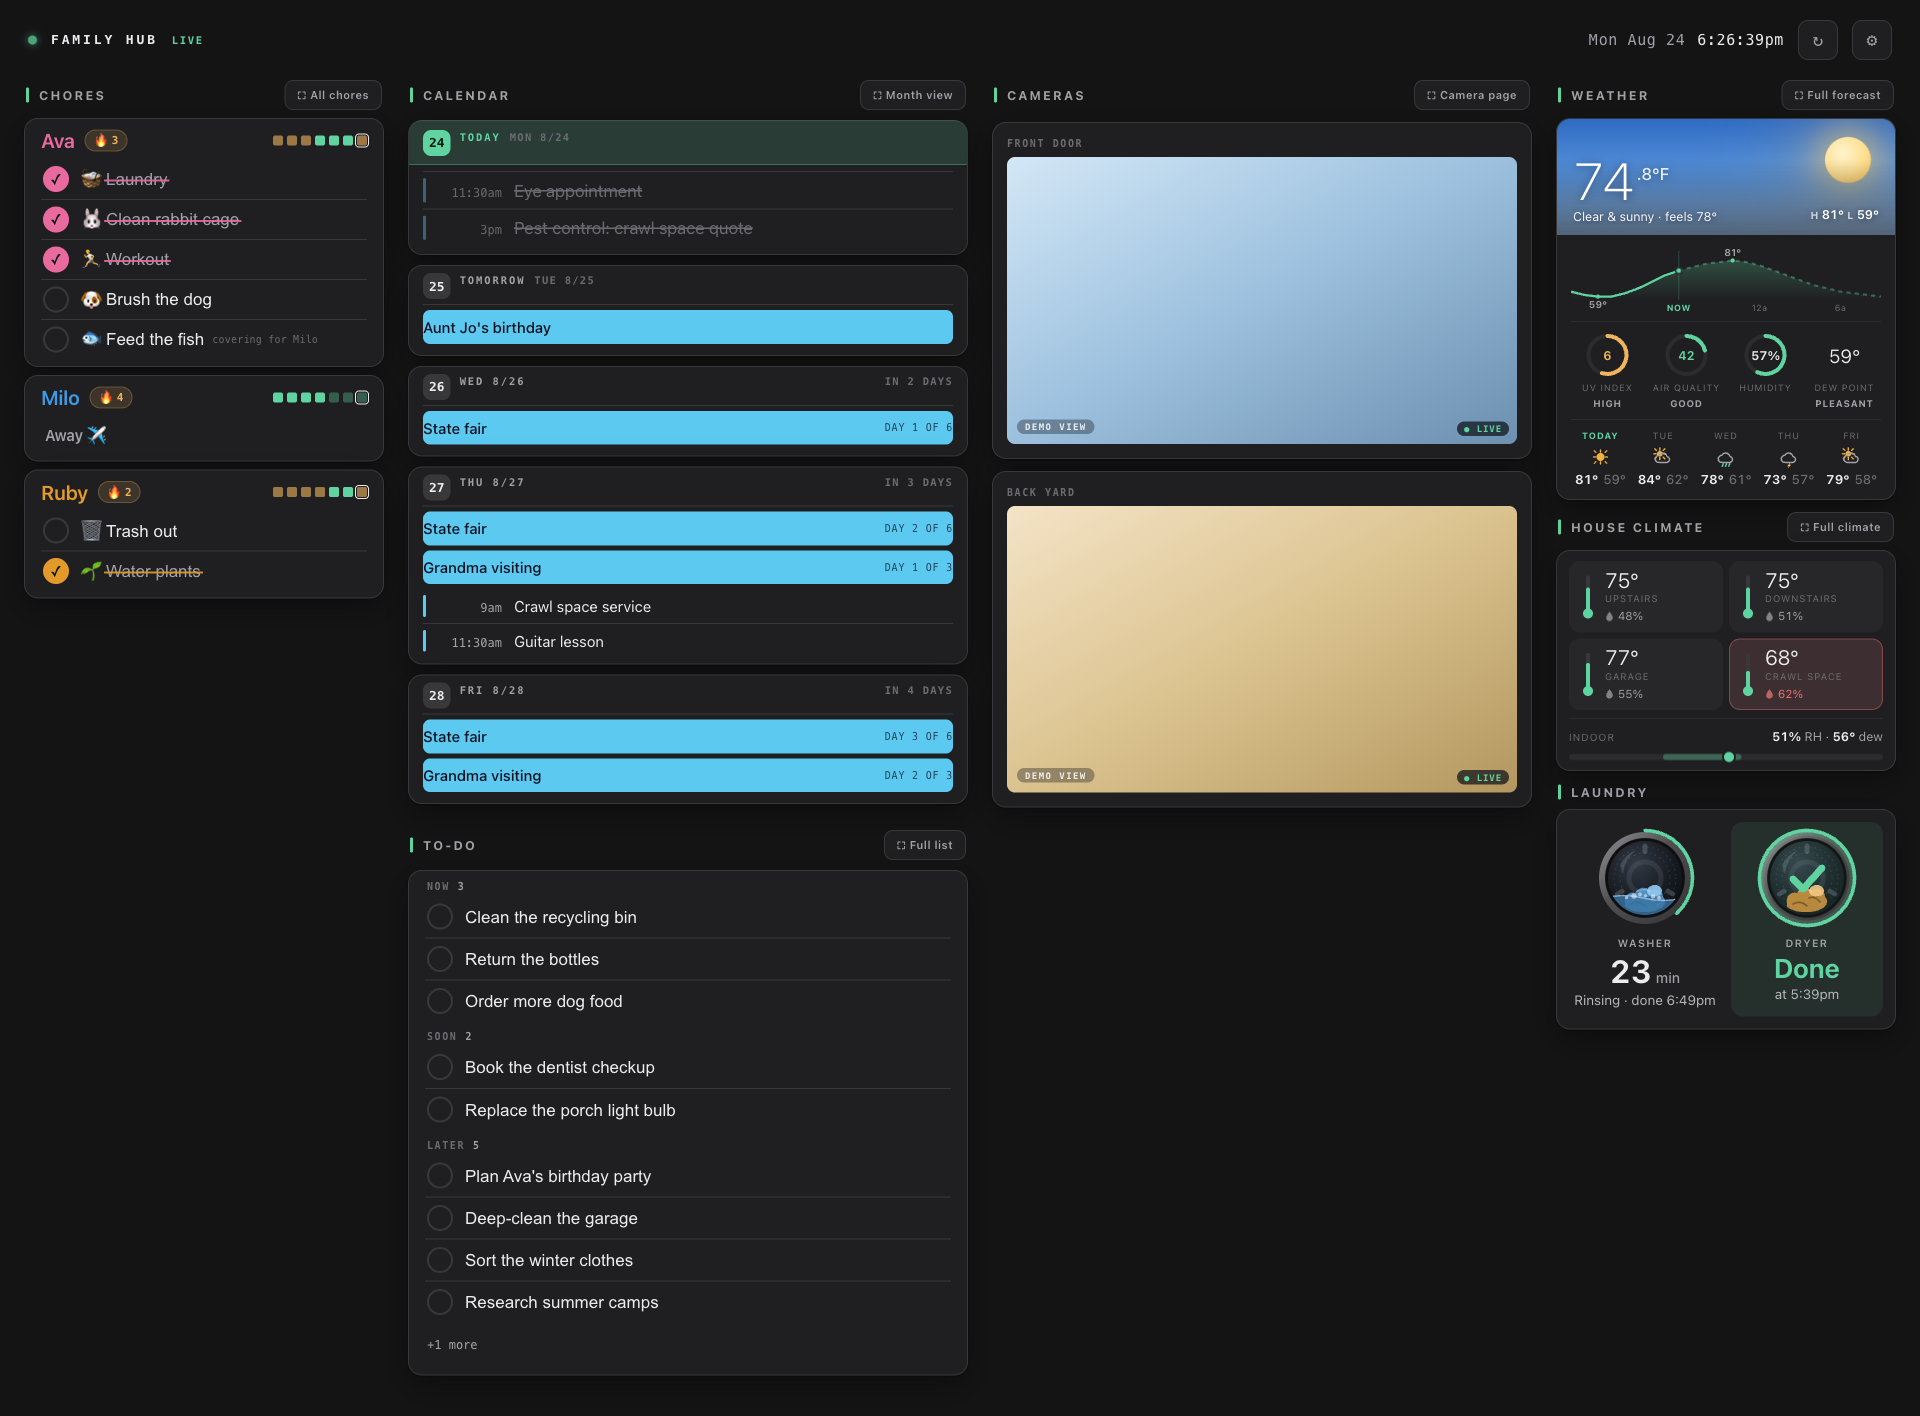
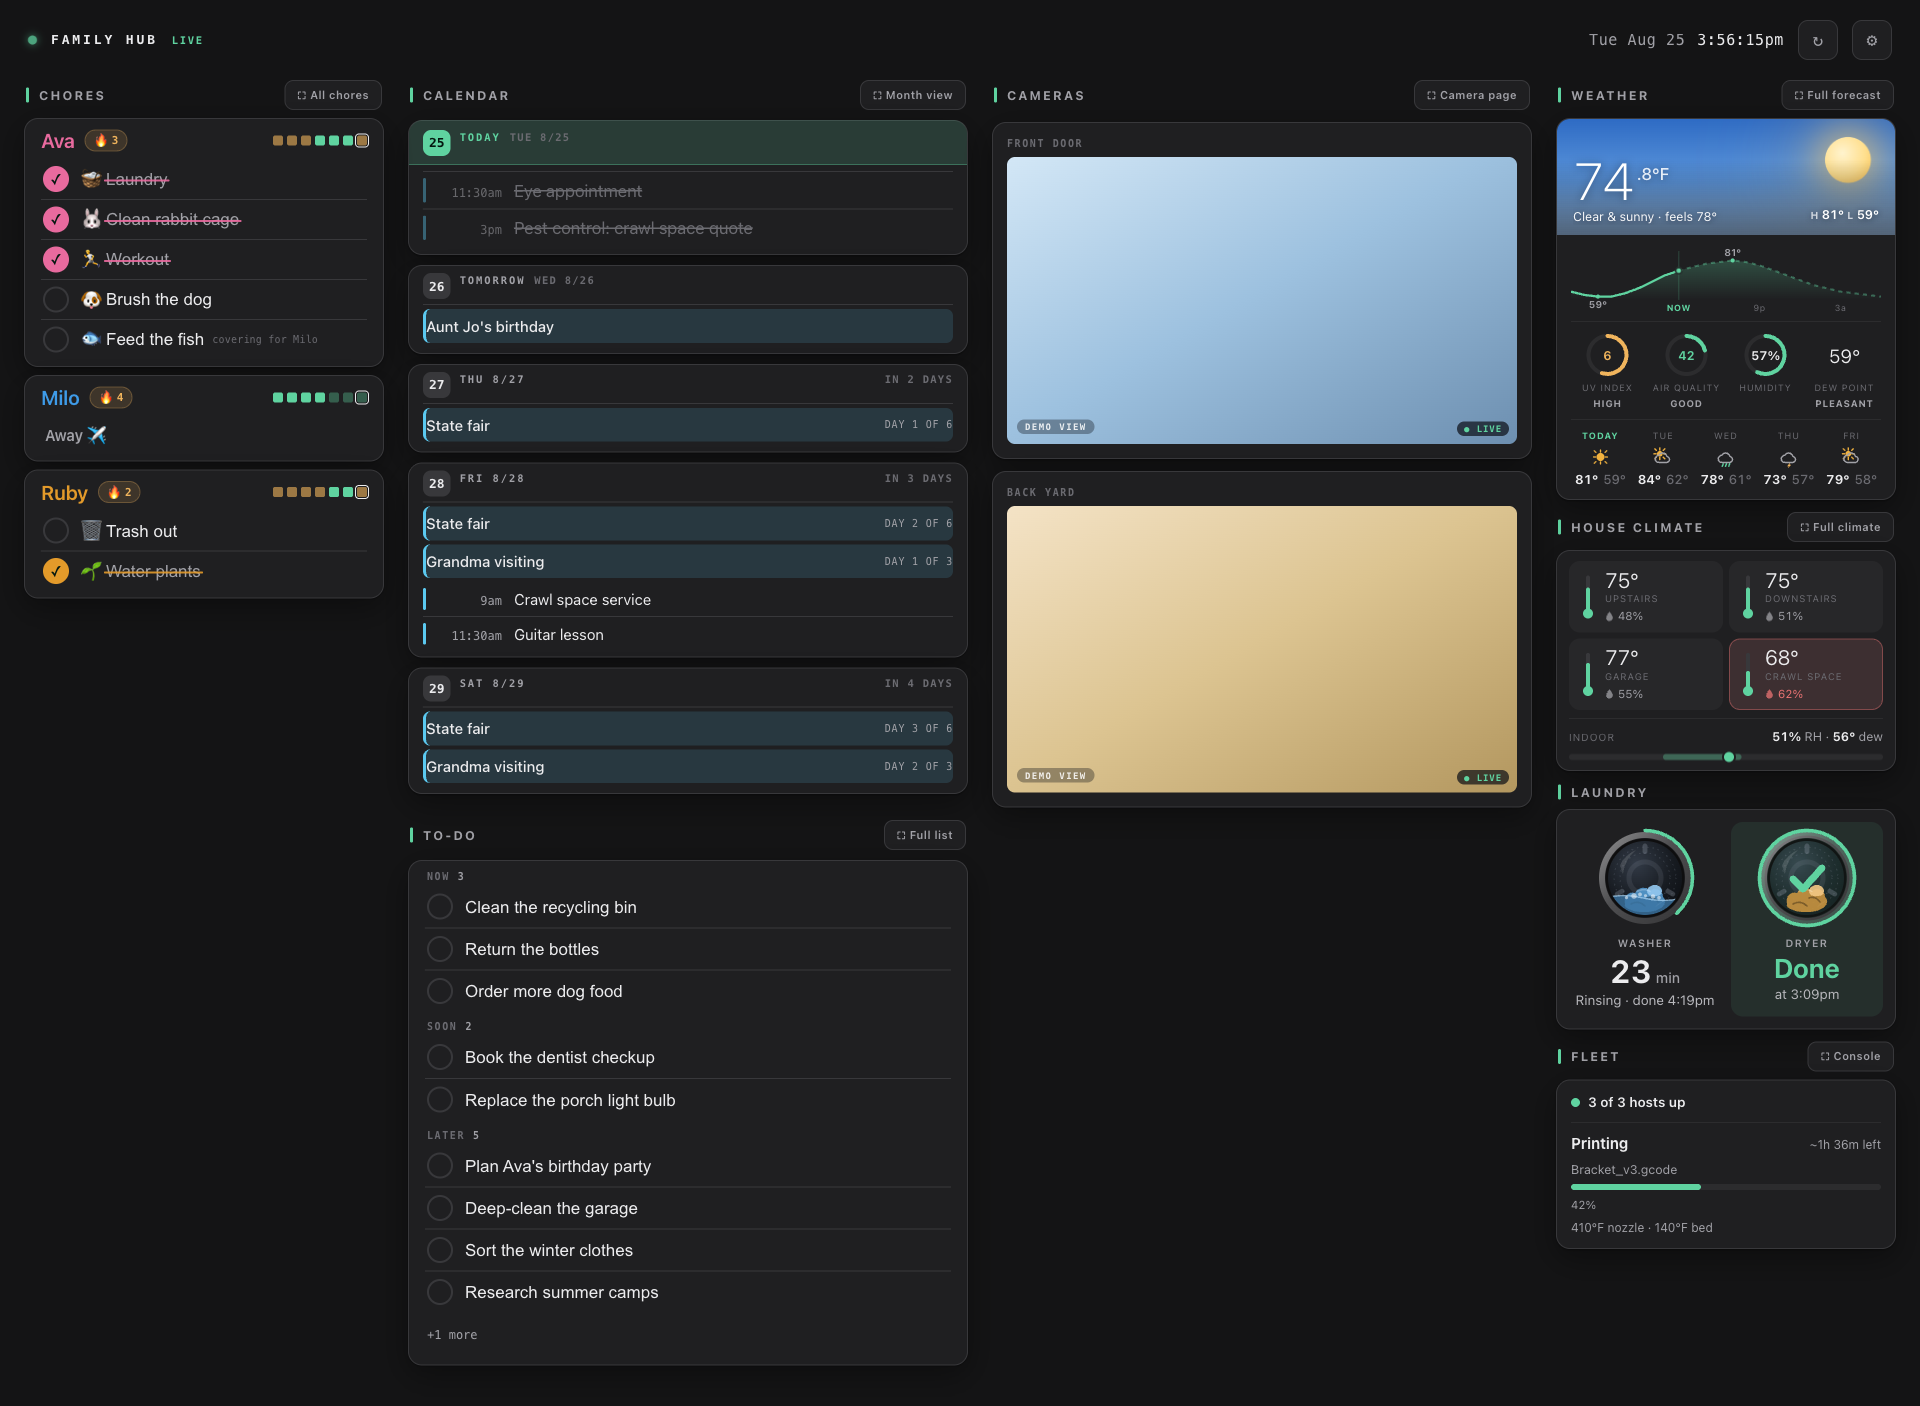
docs(fleet): visual gates + README + regenerated hub.png (gates 7, 8, 10-prep)
Ran the full visual gauntlet on the Fleet Console card via a DEMO run
(1920px wall, phone width, light/dark/black themes, night-mode class,
and all five tile states: printing, idle, offline, unavailable, and an
unhealthy fleet with an XSS-probe worstProblem string that rendered
escaped, not executed). Added a fleet panels entry to config.demo.json
so the Console button and full-screen overlay wiring are exercised in
demo too. Regenerated docs/hub.png from the demo at 1920px full-page
with the card in its best state (printer mid-print). README: new
Fleet Console feature bullet, a config.json reference row, and the
hero-image caption/wall-layout line updated to mention it.

CHANGELOG already carries the feature's [Unreleased] entries from the
server/card commits; changelog-guard passes on this docs-only diff
with no further entry needed. Anti-slop pass on the card found no
generic-AI tells: it reuses the app's existing tokens and idioms
throughout.

Claude-Session: https://claude.ai/code/session_01UMBdLLUZCSfS6kibxy3XZg

diff --git a/README.md b/README.md
@@ -15,7 +15,7 @@ light or dark theme with an accent color you pick.
 
 ![family-hub](docs/hub.png)
 
-*The kitchen wall: one card system across chores, the shared calendar with to-dos, cameras, at-a-glance weather + per-room climate, and the laundry portholes. Shown in the default grey theme with a green accent and sample data.*
+*The kitchen wall: one card system across chores, the shared calendar with to-dos, cameras, at-a-glance weather + per-room climate, the laundry portholes, and the Fleet Console status card. Shown in the default grey theme with a green accent and sample data.*
 
 ![family-hub on a phone](docs/phone.png)
 
@@ -28,7 +28,7 @@ at one URL.
 ## What it looks like
 
 - **Wall (1920×1080):** chores | calendar + to-dos | cameras | weather +
-  climate + laundry, all in one card system. **Five display modes** (light, soft, blue,
+  climate + laundry + fleet, all in one card system. **Five display modes** (light, soft, blue,
   grey, black) **with a pick-your-accent color** (cyan, violet, amber, or green)
   and an optional subtle column
   separation, set from the wall itself or any phone and remembered per device.
@@ -73,6 +73,13 @@ at one URL.
   the observing, the log fills even with no wall open. Built for LG
   ThinQ's sensors, but any HA integration exposing a status enum + a
   remaining-time timestamp works. Fails soft like weather/climate.
+- **Fleet Console:** an optional card proxying a separate home-lab dashboard's
+  compact status rollup — a system-health line ("N of M hosts up", the worst
+  problem in words when something's down) over a 3D printer's state, job,
+  progress bar, ETA, and nozzle/bed temps. Rides the panels column under
+  Laundry on the wall and the Weather tab on the phone (no tab of its own).
+  Tap **⛶ Console** to open the full dashboard full-screen, when configured.
+  Fails soft like weather/climate; off entirely with no `fleet` config block.
 - **Manage:** tap **Edit** on the wall's Chores page to add/edit chores and
   people (rename, recolor, deactivate, or delete) right on the touchscreen —
   no phone needed. Mark someone **away** here too, with an optional backup to
@@ -186,6 +193,7 @@ once with **`?kiosk=1`** to turn it on (the setting is then remembered;
 | `weather_base` | Base URL of a weather JSON feed for the native weather card (the card shows for a configured `weather` panel; empty base = "unavailable" note) |
 | `climate_base` | Base URL of a per-room climate JSON feed for the native climate card (shows for a configured `climate` panel; empty base = "unavailable" note) |
 | `laundry` | Washer/dryer status via Home Assistant: `{"ha_base", "machines": [{"id","label","kind","status_entity","remaining_entity"}]}` — `kind` is `washer` or `dryer` (sets the drum tint), the entities are HA sensor ids (LG ThinQ's *Current status* enum + *Remaining time* timestamp, or equivalents). The HA long-lived token comes from the `HA_TOKEN` env var, never this file. Omit to skip the card. |
+| `fleet` | Fleet Console card: `{"base": "http://192.168.1.50:3000"}` — the base URL of a separate home-lab dashboard app exposing a compact `/api/rollup` status endpoint (host + 3D-printer status). Optional `"label"`. Omit to skip the card. Pair with a `"fleet"` entry in `panels` (below) to get the **⛶ Console** full-screen button. |
 | `theme` | House default display theme — `{"mode","accent","columns"}` (`mode`: light/dark, `accent`: cyan/violet/amber/green, `columns`: none/wells/lines). Applied on a fresh device with no saved override |
 
 ### Calendars: Google
